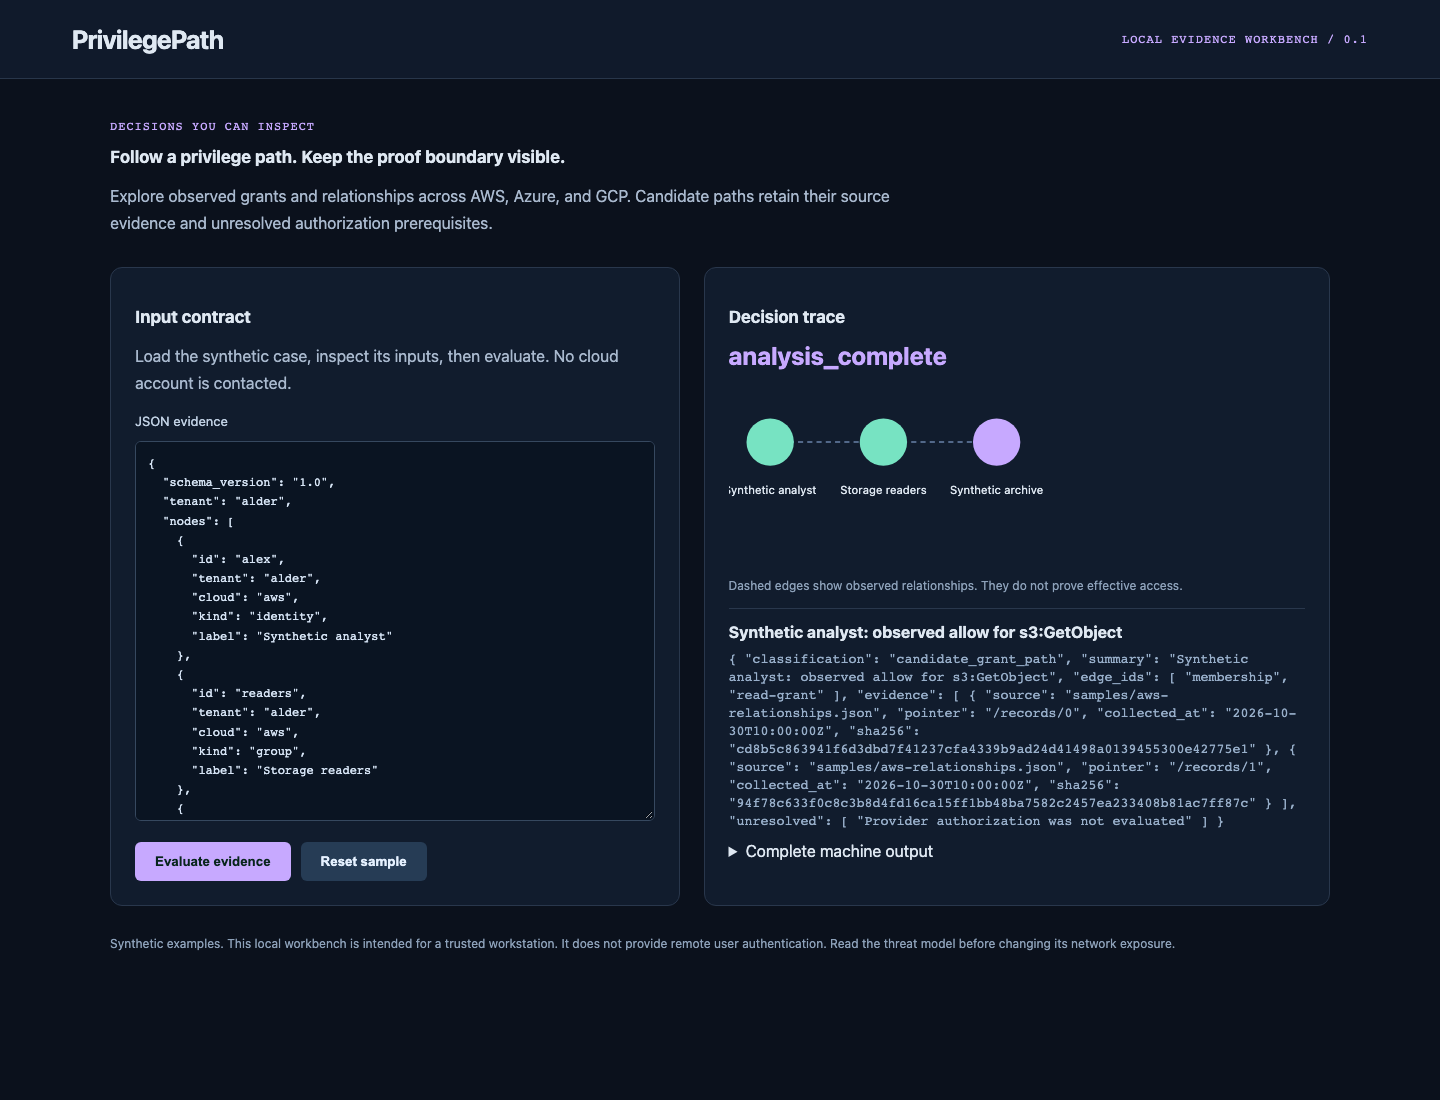
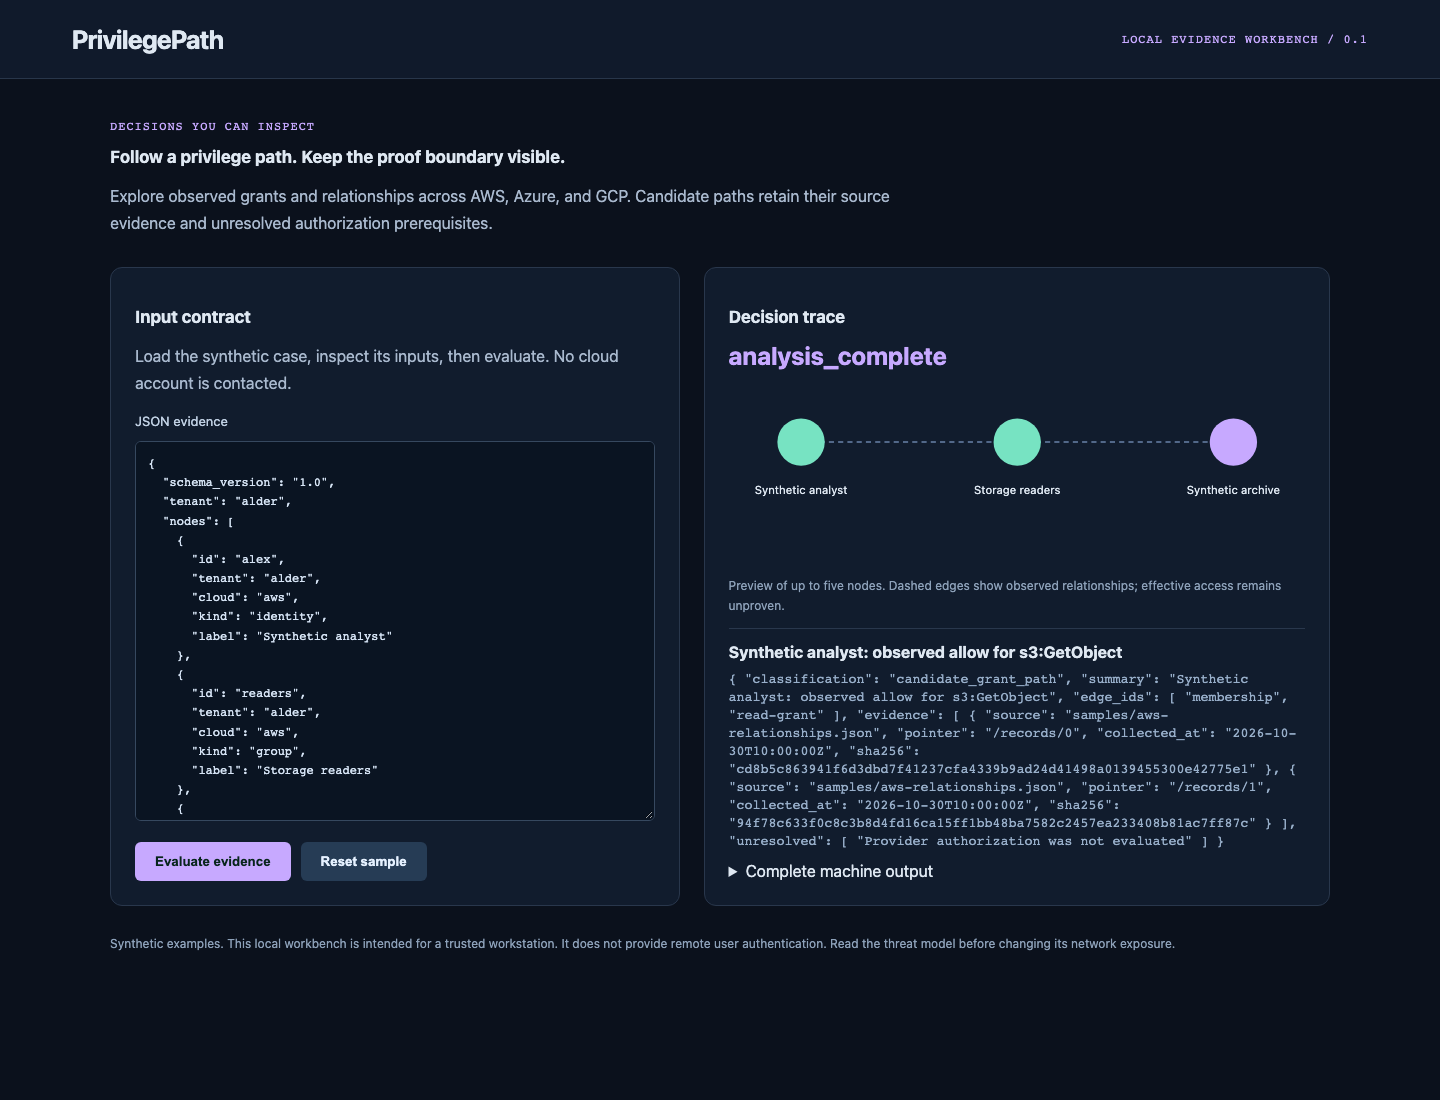
Keep graph labels visible and state preview limits

diff --git a/web/index.html b/web/index.html
@@ -1,1 +1,1 @@
-<!doctype html><html lang="en"><head><meta charset="utf-8"><meta name="viewport" content="width=device-width,initial-scale=1"><title>PrivilegePath | Evidence Workbench</title><link rel="stylesheet" href="/style.css"></head><body><header><h1>PrivilegePath</h1><span>LOCAL EVIDENCE WORKBENCH / 0.1</span></header><main><div class="intro"><span class="tag">DECISIONS YOU CAN INSPECT</span><h2 id="subtitle"></h2><p id="description"></p></div><div class="layout"><section class="panel"><h2>Input contract</h2><p>Load the synthetic case, inspect its inputs, then evaluate. No cloud account is contacted.</p><label for="input">JSON evidence</label><textarea id="input" spellcheck="false"></textarea><button id="evaluate">Evaluate evidence</button><button class="secondary" id="reset">Reset sample</button></section><section class="panel"><h2>Decision trace</h2><div id="decision" class="decision">Ready to evaluate</div><svg id="graph" viewBox="0 0 560 170" role="img" aria-label="Observed relationship graph"></svg><p class="note">Dashed edges show observed relationships. They do not prove effective access.</p><div id="findings"></div><details><summary>Complete machine output</summary><pre id="output"></pre></details></section></div><p class="note">Synthetic examples. This local workbench is intended for a trusted workstation. It does not provide remote user authentication. Read the threat model before changing its network exposure.</p></main><script type="module" src="/app.js"></script></body></html>
+<!doctype html><html lang="en"><head><meta charset="utf-8"><meta name="viewport" content="width=device-width,initial-scale=1"><title>PrivilegePath | Evidence Workbench</title><link rel="stylesheet" href="/style.css"></head><body><header><h1>PrivilegePath</h1><span>LOCAL EVIDENCE WORKBENCH / 0.1</span></header><main><div class="intro"><span class="tag">DECISIONS YOU CAN INSPECT</span><h2 id="subtitle"></h2><p id="description"></p></div><div class="layout"><section class="panel"><h2>Input contract</h2><p>Load the synthetic case, inspect its inputs, then evaluate. No cloud account is contacted.</p><label for="input">JSON evidence</label><textarea id="input" spellcheck="false"></textarea><button id="evaluate">Evaluate evidence</button><button class="secondary" id="reset">Reset sample</button></section><section class="panel"><h2>Decision trace</h2><div id="decision" class="decision">Ready to evaluate</div><svg id="graph" viewBox="0 0 560 170" role="img" aria-label="Observed relationship graph"></svg><p class="note">Preview of up to five nodes. Dashed edges show observed relationships; effective access remains unproven.</p><div id="findings"></div><details><summary>Complete machine output</summary><pre id="output"></pre></details></section></div><p class="note">Synthetic examples. This local workbench is intended for a trusted workstation. It does not provide remote user authentication. Read the threat model before changing its network exposure.</p></main><script type="module" src="/app.js"></script></body></html>

diff --git a/web/app.ts b/web/app.ts
@@ -58,7 +58,9 @@ function drawGraph(value: unknown): void {
   svg.replaceChildren();
   const make = (name: string) => document.createElementNS("http://www.w3.org/2000/svg", name);
   const shown = graph.nodes.slice(0, 5);
-  const positions = new Map(shown.map((n, i) => [n.id, 40 + i * 110]));
+  const positions = new Map(
+    shown.map((n, i) => [n.id, shown.length === 1 ? 280 : 70 + (i * 420) / (shown.length - 1)]),
+  );
   for (const edge of graph.edges) {
     const x1 = positions.get(edge.from),
       x2 = positions.get(edge.to);
